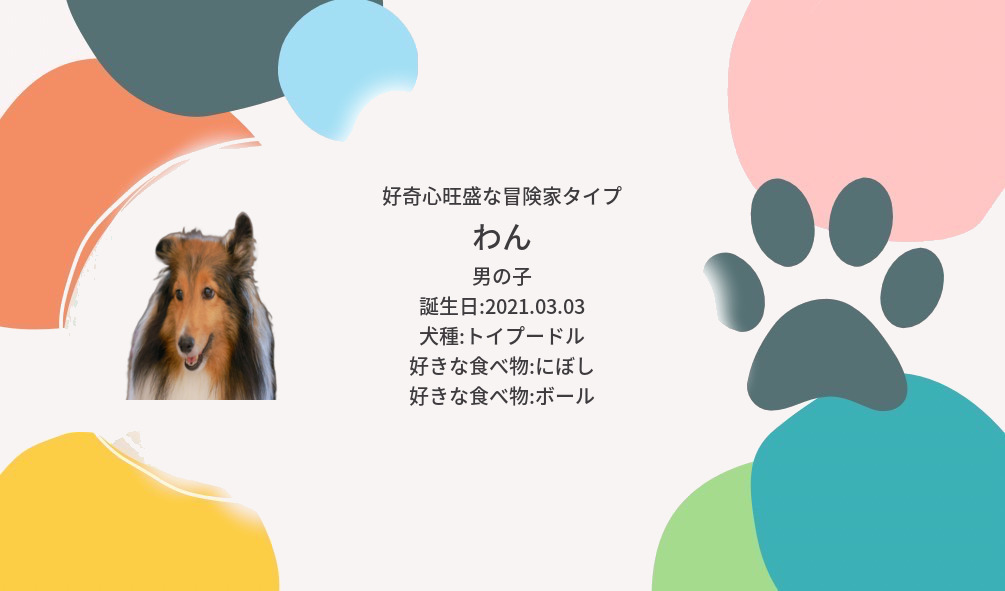
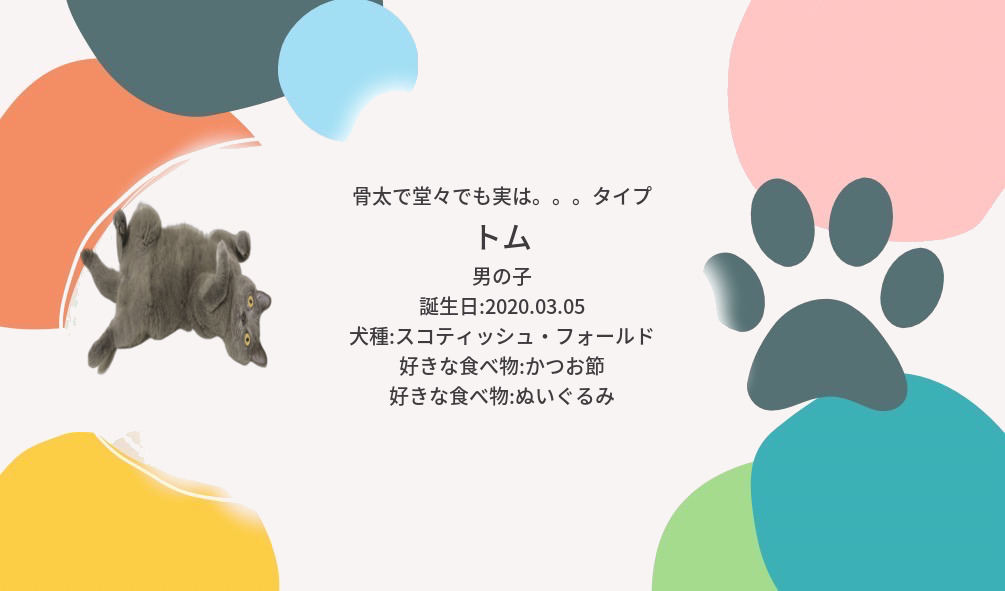
feat:topページにみんなのプロフィールカードを表示

Changed region(s): [[0.0617, 0.335, 0.2776, 0.7005], [0.3393, 0.5482, 0.6478, 0.7005], [0.3393, 0.3046, 0.6478, 0.4264]]

diff --git a/app/controllers/welcome_pages_controller.rb b/app/controllers/welcome_pages_controller.rb
@@ -1,5 +1,6 @@
 class WelcomePagesController < ApplicationController
   def top
     @profile_card = ProfileCard.new
+    @profile_cards = ProfileCard.where.not(card_type: nil).order(updated_at: :desc)
   end
 end
